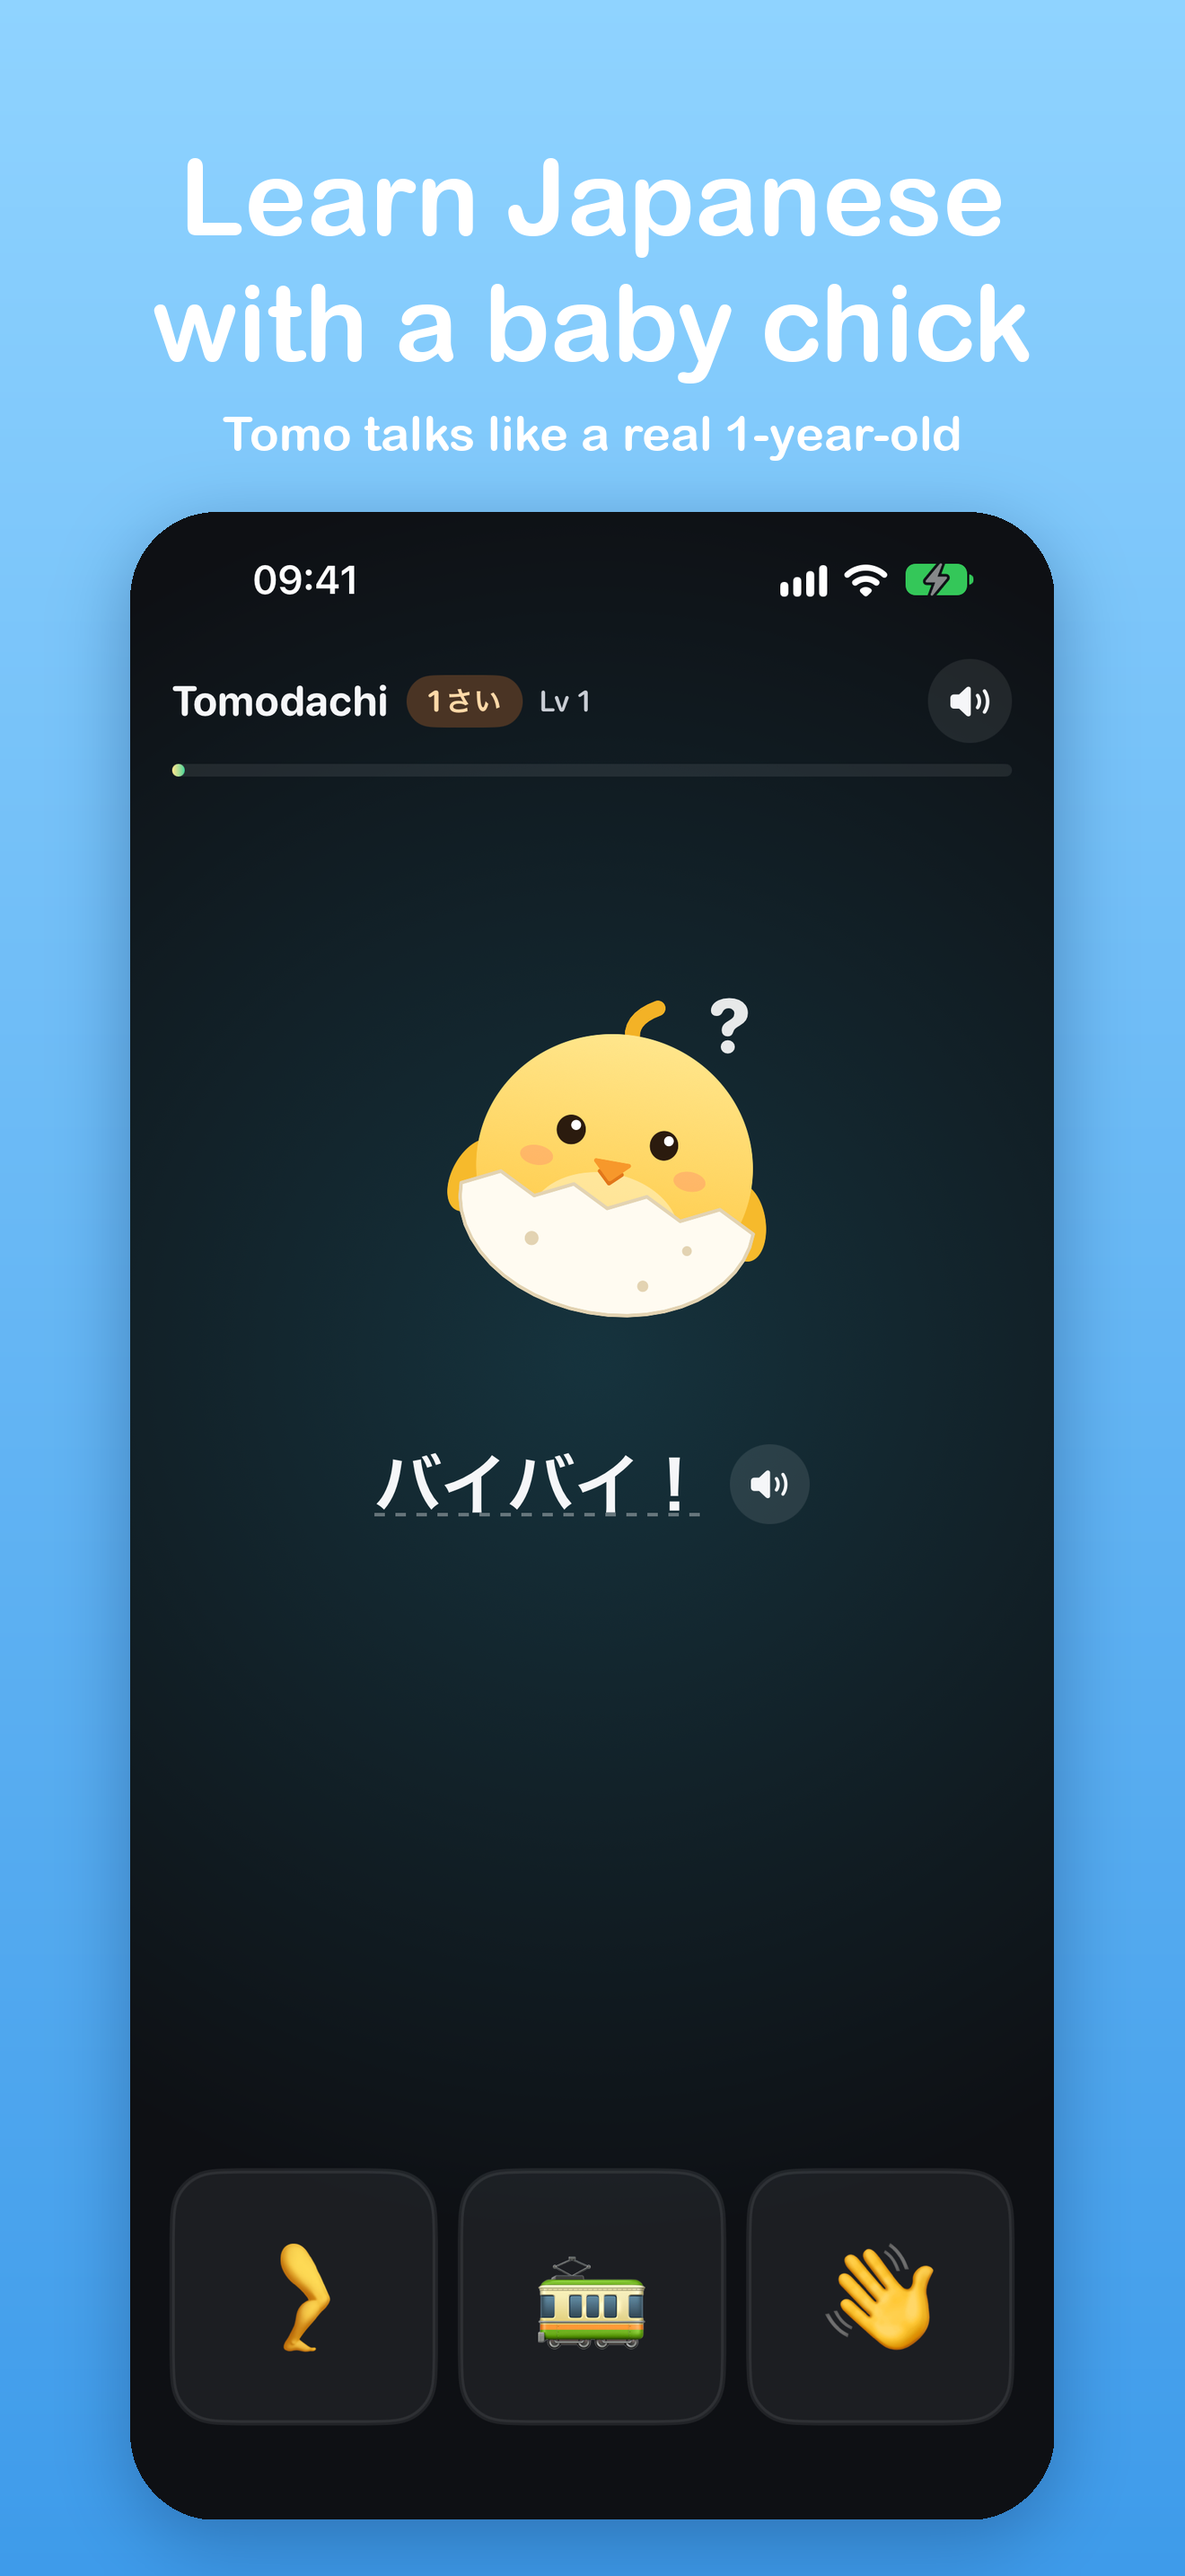
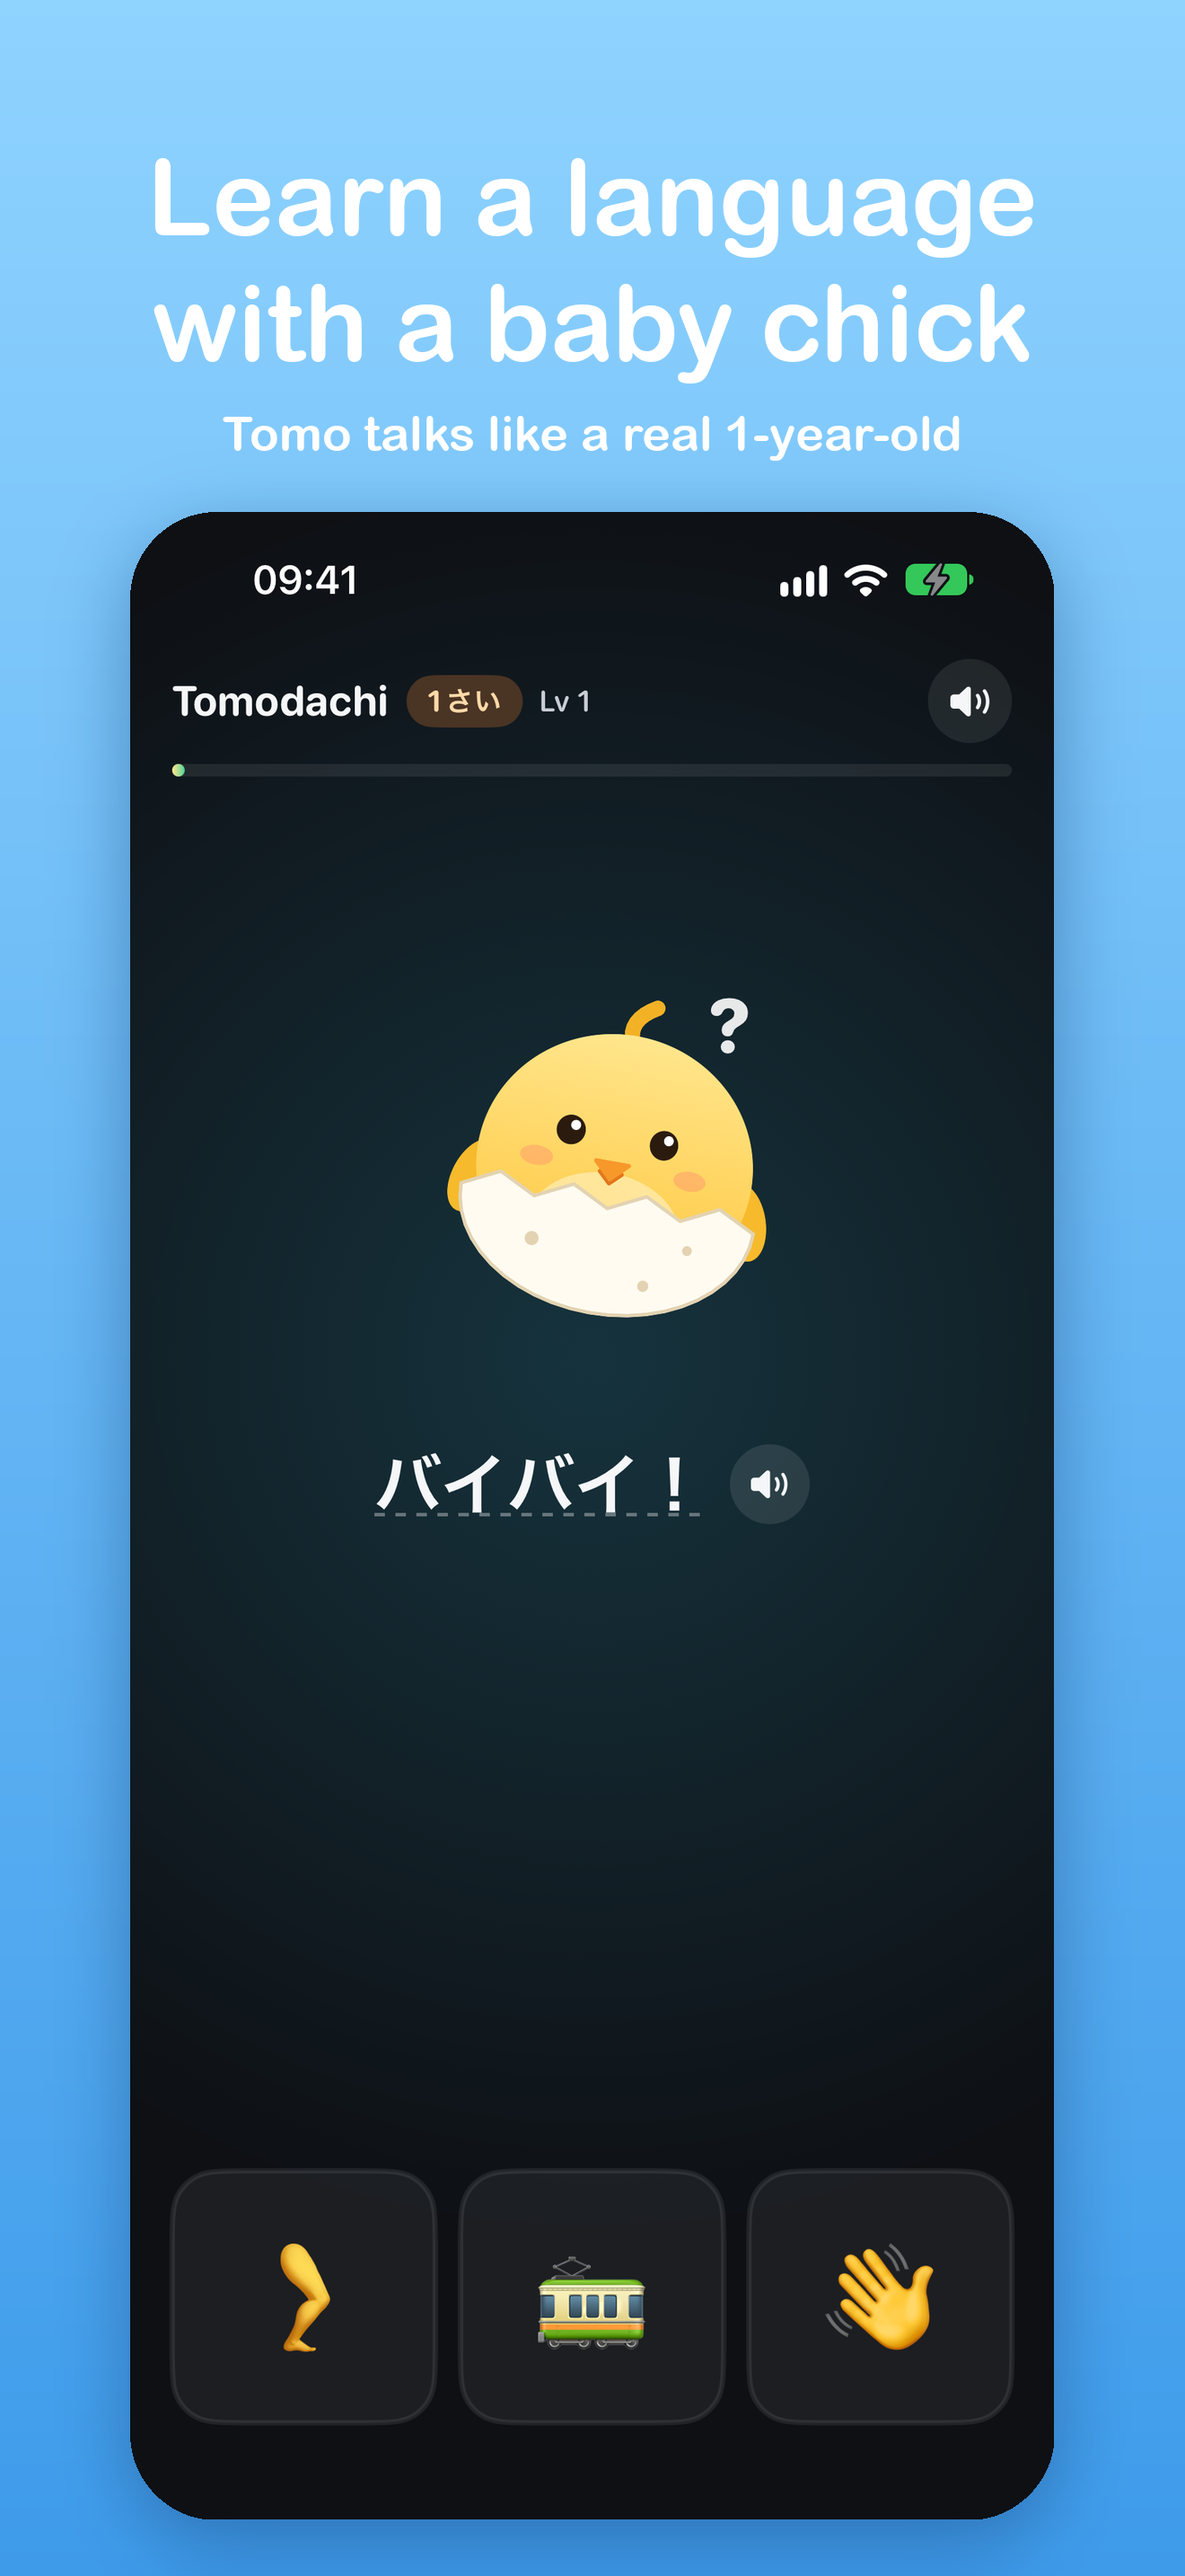
chore(ios): App Store listing speaks of any language, not just Japanese

Changed region(s): [[0.1242, 0.0621, 0.8697, 0.1241]]

diff --git a/ios-demo/scripts/make-screenshots.py b/ios-demo/scripts/make-screenshots.py
@@ -12,10 +12,10 @@ W, H = 1320, 2868
 TOP, BOTTOM = (0x8F, 0xD3, 0xFF), (0x3E, 0x9B, 0xEA)
 FONT = "/System/Library/Fonts/Supplemental/Arial Rounded Bold.ttf"
 SHOTS = [
-    ("1-ask.png",   "Learn Japanese\nwith a baby chick",   "Tomo talks like a real 1-year-old"),
+    ("1-ask.png",   "Learn a language\nwith a baby chick",   "Tomo talks like a real 1-year-old"),
     ("2-win.png",   "Get it right,\nwatch Tomo grow",       "Every answer counts toward its next birthday"),
     ("3-talk.png",  "From baby words\nto real questions",   "At 3, Tomo starts asking you things"),
-    ("4-word.png",  "Tap any word\nto look it up",          "Readings, meanings and the iPhone dictionary"),
+    ("4-word.png",  "Tap any word\nto look it up",          "See what it means, or open the dictionary"),
     ("5-home.png",  "Tomo waits on your\nHome Screen",      "Widgets show when new words are ready"),
 ]
 
